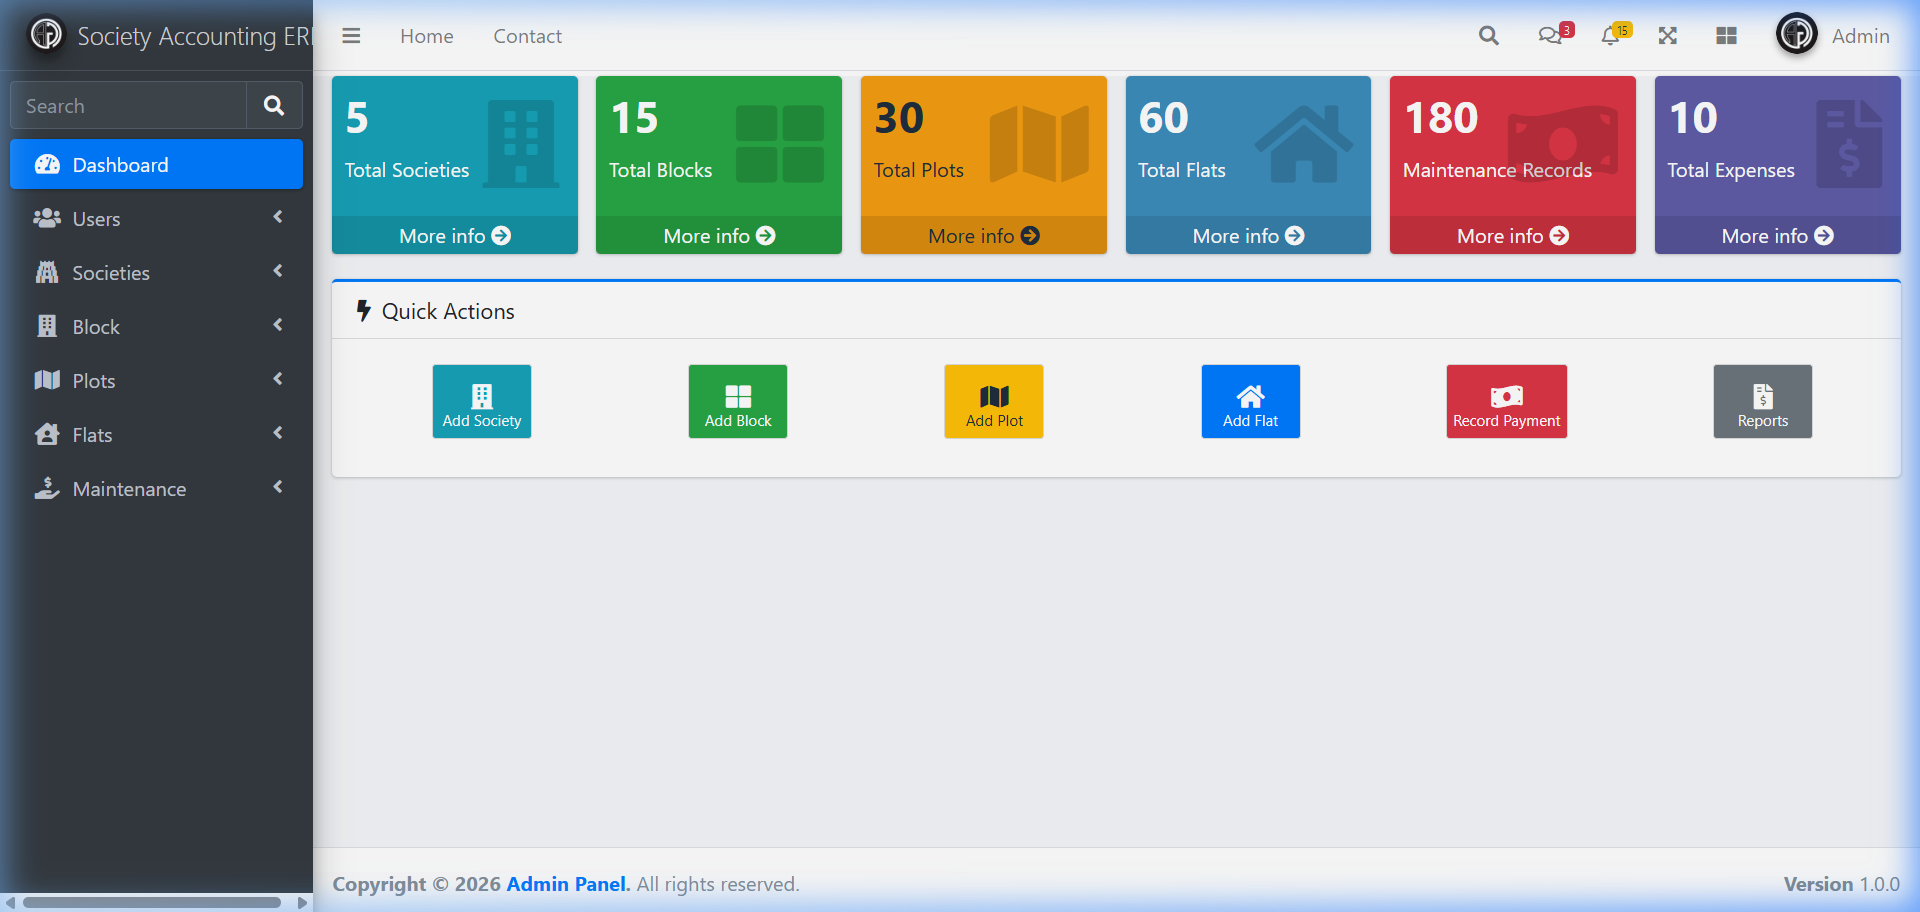
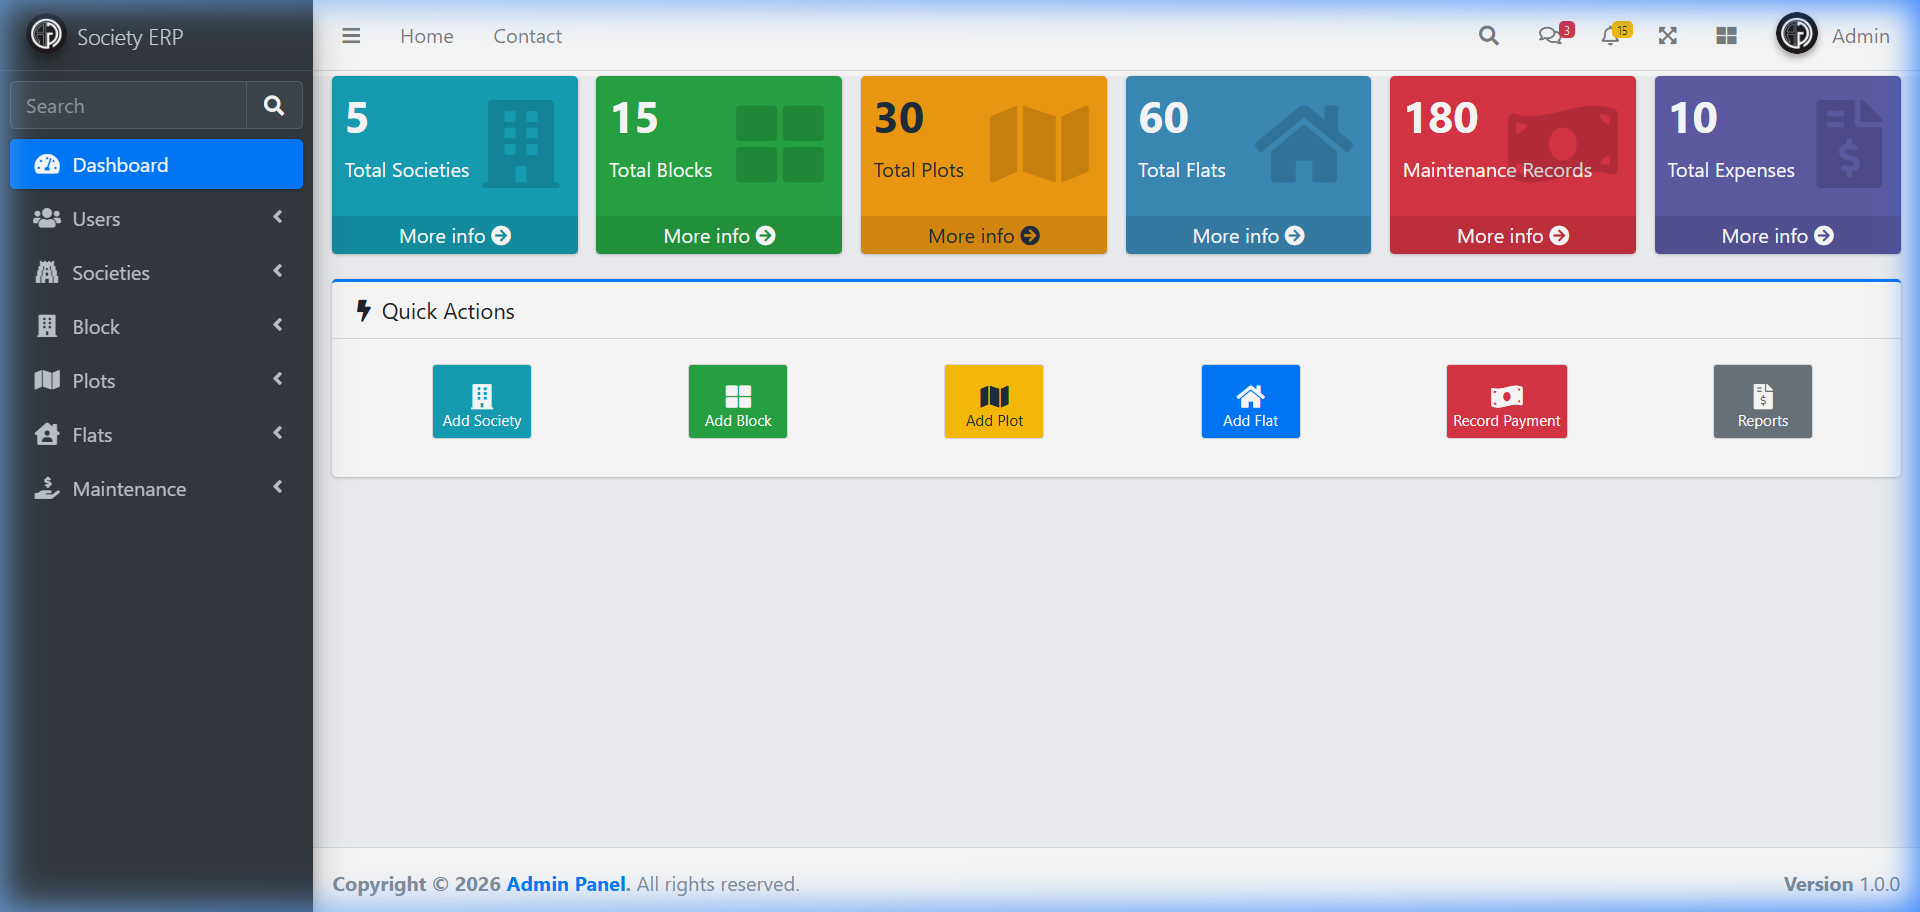
feat: add initial admin sidebar layout and a dashboard screenshot.

diff --git a/resources/views/layouts/partials/_admin-sidebar.blade.php b/resources/views/layouts/partials/_admin-sidebar.blade.php
@@ -1,7 +1,7 @@
 <aside class="main-sidebar sidebar-dark-primary elevation-4">
     <a href="{{ route('home') }}" class="brand-link">
         <img src="{{ asset('images/ag-logo-small.png') }}" alt="Admin Logo" class="brand-image img-circle elevation-3">
-        <span class="brand-text font-weight-light">{{ config('app.name') }}</span>
+        <span class="brand-text font-weight-light" style="font-size: 1.1rem;">Society ERP</span>
     </a>
 
     <div class="sidebar">
